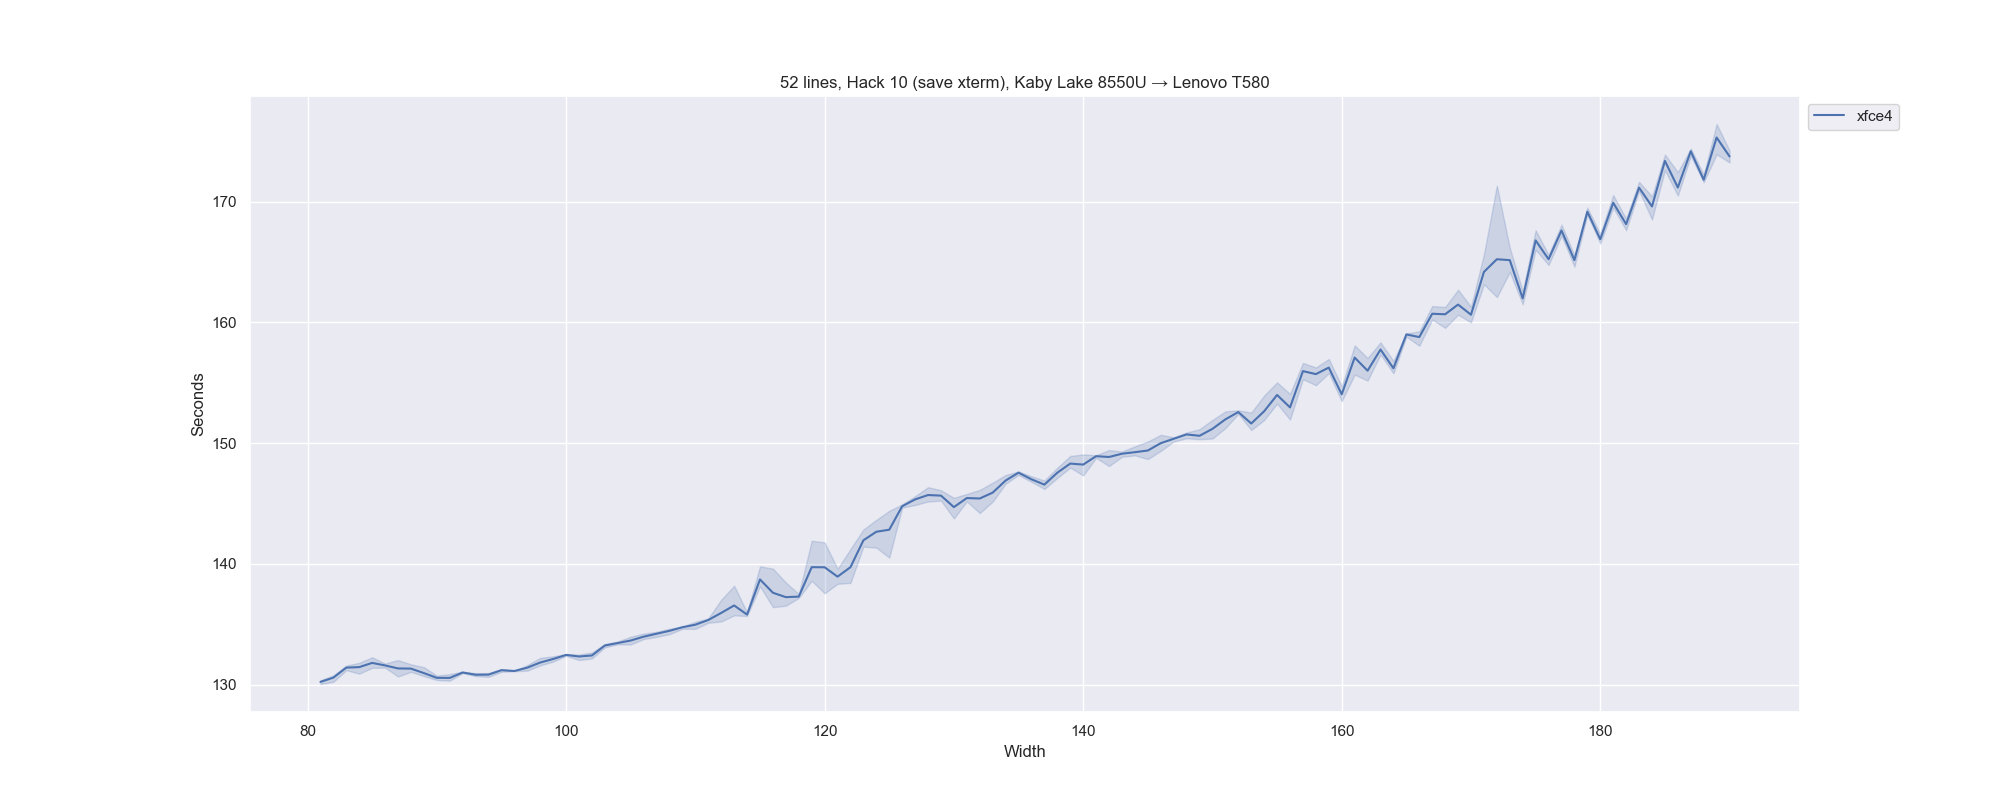
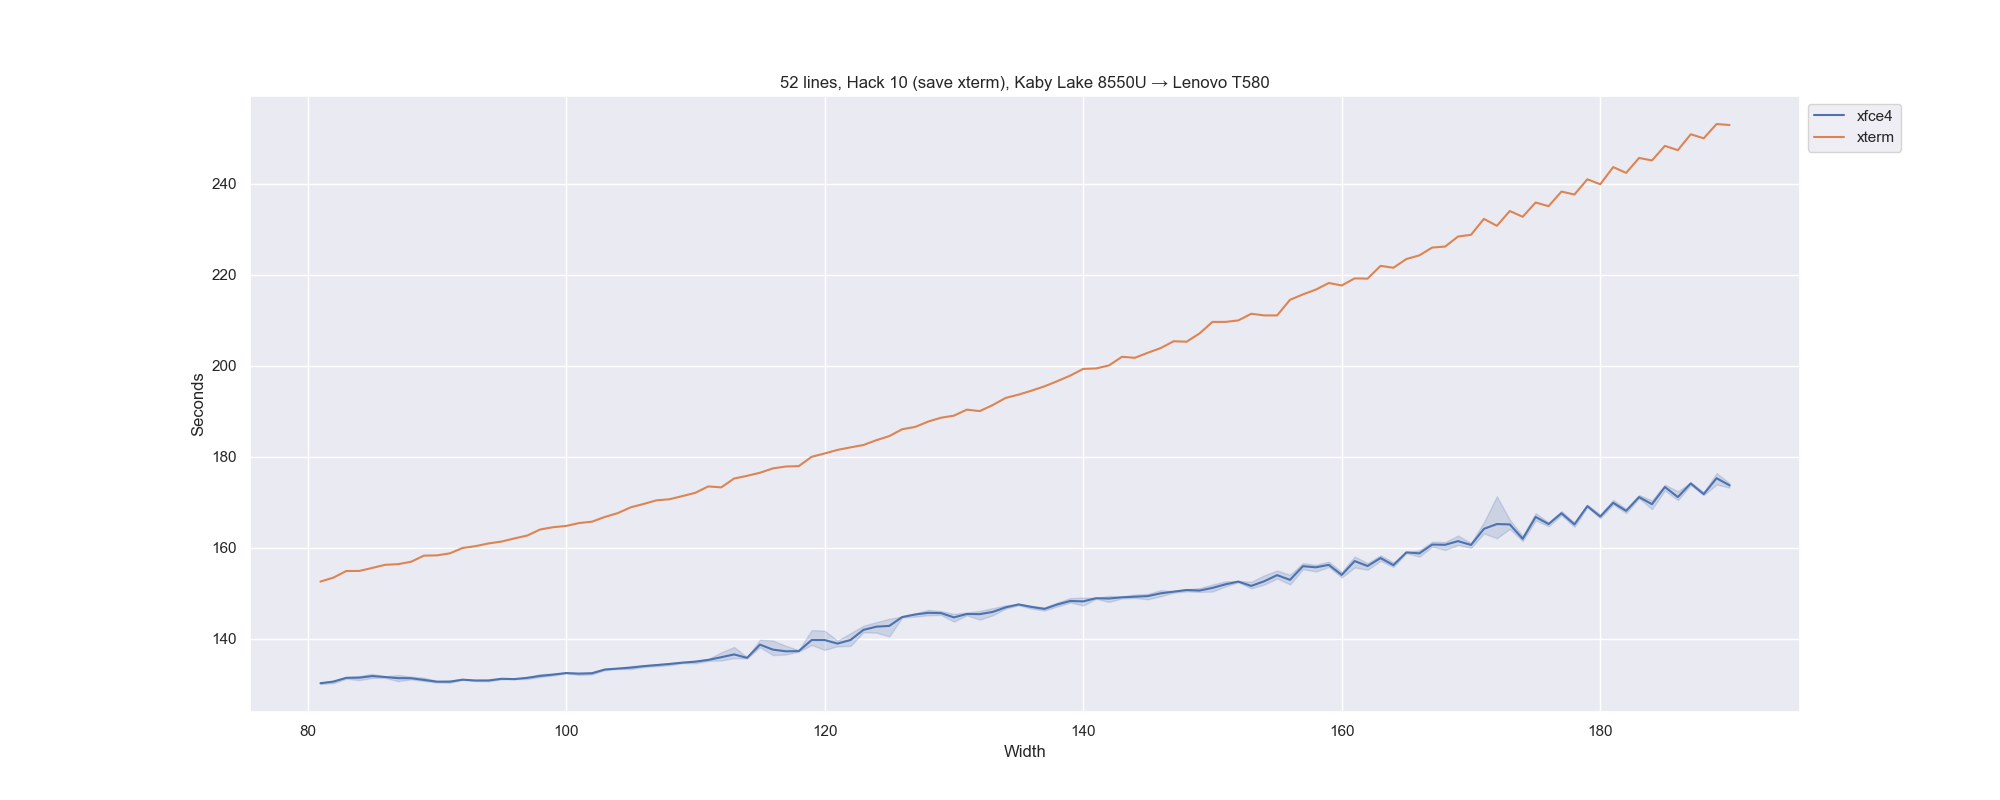
all my data

diff --git a/004-notcurses/notcurses.tex b/004-notcurses/notcurses.tex
@@ -2857,7 +2857,7 @@ encoding have ISO/IEC versions, which should probably be considered their
 canonical editions. Many of these ISO/IEC standards ratified or included ECMA
 or ANSI standards. Table~\ref{table:standards} lists equivalencies.
 
-\begin{table}
+\begin{table}[!h]
   \centering
   \begin{tabular}{|l|l|l|l|}
     \hline
@@ -2911,8 +2911,6 @@ unification: SUS3 aka POSIX.1-2001. SUS4 was built atop POSIX.1-2008, and has
 seen three new editions in 2013, 2016, and 2018. If you comply with SUS4 including
 both its Technical Corrigendae, you're officially ``UNIX V7'', and are out a few
 tens of thousands of dollars in Open Group conformance testing.
-
-Is there an ISO version of POSIX? You betcha. ISO/IEC 9945.
 
 \cleardoublepage
 %%%%%%%%%%%%%%%%%%%%%%%%%%%%%%%%%%%%%%%%%%%%%%%%%%%%%%%%%%%%%%%%%%%

diff --git a/004-notcurses/plotrun.py b/004-notcurses/plotrun.py
@@ -21,7 +21,7 @@ for suf in suffixes:
     times = [] # nanosecond counts
     terms = [] # terminals
     for b in bases:
-        for i in range(81,158):
+        for i in range(81,191):
             print('data/' + b + str(i) + '.json')
             xterm=pd.read_json('data/' + b + str(i) + '.json')
             #print(xterm)
